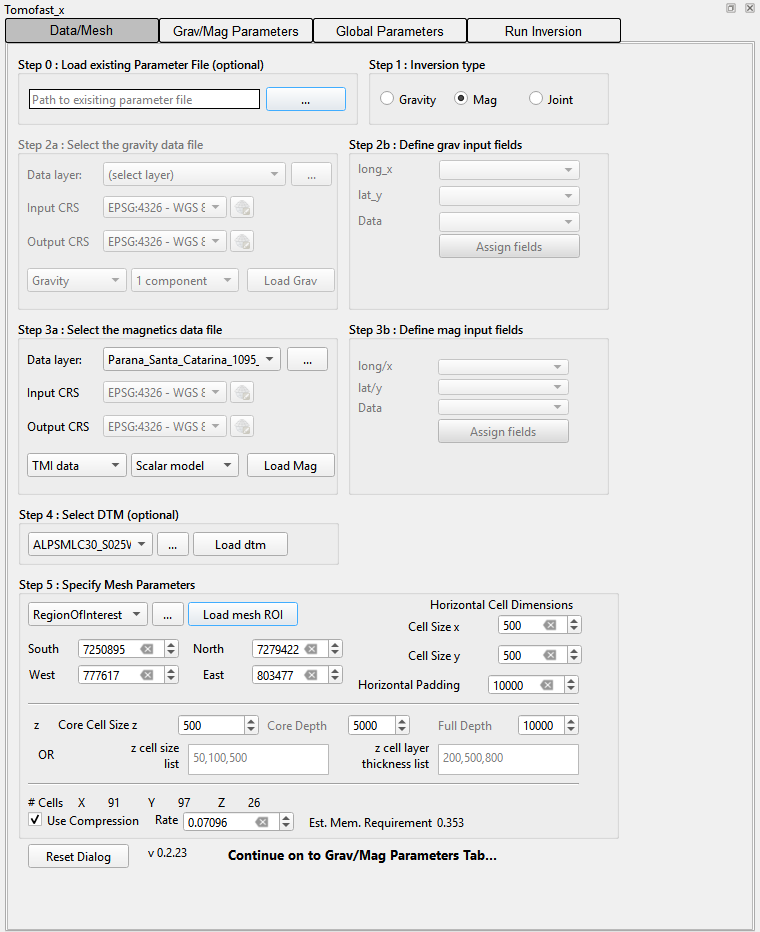
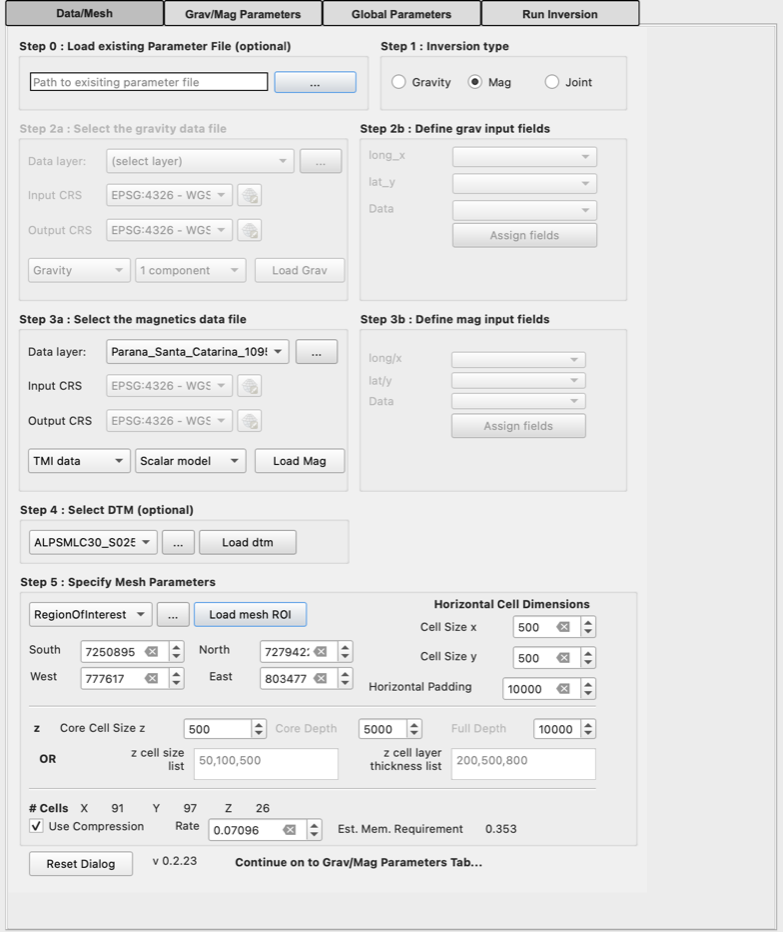
User manual: example data section, regional-removed Cajati grid
- Add an Example data section with the Cajati.zip download, SGB credit
  and an explanation of the regional removal (SGTool Remove Regional,
  1st order), which centres the magnetic grid on zero
- Redo the walkthrough with the _RR grid: the run now passes every
  check (susceptibility -0.89 to 0.90 instead of -9.9 to 15.6)
- Regenerate screenshots and maps (macOS), fix the file table to the
  zip's flat layout, update the Reference Manual to match

diff --git a/docs/ReferenceManual.md b/docs/ReferenceManual.md
@@ -118,9 +118,9 @@ Step 2a 🟧 Grav and Step 3a 🟦 Mag work the same way.
 | Scalar model / Vector (MVI) | ⬜ Optional | `modelGrid.magn.nModelComponents` (1 or 3) | Solve for susceptibility, or for a magnetisation vector (Mx, My, Mz) in each cell. |
 | **Load Grav** / **Load Mag** | 🟧 Grav 🟦 Mag |  | Reads the chosen data. A raster is added to the map (or the open layer is reused) and its extent is copied to the mesh limits in Step 5. For multi-component rasters the matching component files are found and checked. For a CSV file the column lists in Step 2b/3b are filled. If a mesh ROI was loaded earlier with the same CRS it is re-applied; if the CRS has changed you are asked to reload the ROI and the DTM. |
 
-<img src="images/tab1_mag_loaded.png" width="420" alt="Step 3a with the MAGMIC grid chosen; Step 5 limits now show the raster extent South 7231675 North 7344425 West 701943 East 805193.">
+<img src="images/tab1_mag_loaded.png" width="420" alt="Step 3a with the regional-removed MAGMIC_clipped_RR grid chosen; Step 5 limits now show the raster extent South 7231675 North 7344425 West 701943 East 805193.">
 
-*After **Load Mag** with the Cajati grid: the Step 5 limits hold the raster extent.*
+*After **Load Mag** with the Cajati grid (regional removed): the Step 5 limits hold the raster extent.*
 
 ### Steps 2b and 3b: Define input fields 🟧 Grav 🟦 Mag (CSV)
 
@@ -198,7 +198,7 @@ Without compression, rate = 1. Stations are the number of CSV points once loaded
 | Units | Values are written unchanged. Tomofast-x multiplies them by the data unit multiplier ([section 7](#7-gravmag-parameters-tab)). |
 
 > [!WARNING]
-> **Use anomaly data.** The plugin does not remove a regional field or the IGRF. Magnetic total-field grids (such as the Cajati `MAGMIC` grid, mean ≈ 22,850 nT) must be reduced to anomalies first, otherwise the inversion needs unrealistic susceptibilities and the [susceptibility check](#10-post-run-checks) warns. Gravity should be a Bouguer (or residual) anomaly.
+> **Use anomaly data.** The plugin does not remove a regional field or the IGRF. Magnetic total-field grids (such as the original Cajati `MAGMIC` grid, mean ≈ 22,855 nT) must be reduced to anomalies first, otherwise the inversion needs unrealistic susceptibilities and the [susceptibility check](#10-post-run-checks) warns. The example data include a `_RR` grid made with the 1st-order **Remove Regional** filter of the [SGTool](https://github.com/swaxi/SGTool) plugin (see the [User Manual](UserManual.md#example-data)). Gravity should be a Bouguer (or residual) anomaly.
 
 ![Mesh cell centres in blue, widening outwards through the padding, and data points in red filling the core region over the magnetic grid.](images/map_saved.png)
 
@@ -248,7 +248,7 @@ Depth weighting is not shown in the panel. It is written as `forward.depthWeight
 
 ## 8. Global Parameters tab
 
-<img src="images/tab3_saved.png" width="420" alt="Global Parameters tab with description, major iterations 3, minor 100, target misfit 5, joint weights, sensitivity kernel options and the output directory path after Save Files.">
+<img src="images/tab3_saved.png" width="420" alt="Global Parameters tab with major iterations 3, minor 100, target misfit 5, joint weights, sensitivity kernel options and the output directory path after Save Files.">
 
 *Global Parameters for the Cajati example after **Save Files**.*
 
@@ -268,11 +268,11 @@ Depth weighting is not shown in the panel. It is written as `forward.depthWeight
 
 ## 9. Run Inversion tab
 
-<img src="images/tab4_run.png" width="420" alt="Run Inversion tab before the run, with the path to tomofastx.exe and paramfile.txt, Windows Native selected and 19 processors.">
+<img src="images/tab4_run.png" width="420" alt="Run Inversion tab on macOS before the run, with the paths to tomofastx, paramfile.txt and mpirun, and 9 processors. The Windows Native and WSL options are greyed out.">
 
-*Ready to run (Windows Native).*
+*Ready to run (macOS, with mpirun).*
 
-<img src="images/tab4_finished.png" width="420" alt="Run Inversion tab after the run: the log ends with THE END followed by green PASS lines and one red WARNING line.">
+<img src="images/tab4_finished.png" width="420" alt="Run Inversion tab after the run: the log ends with THE END followed by six green PASS lines.">
 
 *Finished run with the post-run checks.*
 
@@ -290,7 +290,7 @@ Depth weighting is not shown in the panel. It is written as `forward.depthWeight
 | **Export** |  | Writes `OUTPUT/grav_final_model3D_full.csv` and/or `mag_final_model3D_full.csv`: cell centres `x,y,z` (z positive upwards) and the value (`data`, or `Mx,My,Mz` for MVI). |
 | Download Plugin Manual / Cheat Sheet / Tomofast-x Manual |  | Open the documents in your browser. |
 
-![3D view of the Cajati magnetic model: three orthogonal slices coloured with the jet colour map and a shared scale bar clipped at 95%.](images/visualise.png)
+![3D view of the Cajati magnetic model: three orthogonal slices coloured with the jet colour map and a shared scale bar from -0.861 to 0.154, clipped at 95%.](images/visualise.png)
 
 *The Cajati model as drawn by Visualise: half-model slices, padding removed, shared colour scale clipped at the 95th percentile.*
 
@@ -310,7 +310,7 @@ When Tomofast-x finishes, the plugin reads `OUTPUT/costs.txt` and the run log an
 | Density range | \|min\| or \|max\| of model 1 > 1000 | Check the gravity unit multipliers. |
 | Susceptibility range | \|min\| or \|max\| of model 2 > 1 (scalar magnetic models only) | Check the magnetic units, and that the data are anomalies (see [section 6](#6-how-the-data-are-prepared)). |
 
-The Cajati example passes every check except the susceptibility range (min −9.9, max 15.6), because the input grid is total field rather than an anomaly.
+The Cajati example (regional-removed grid) passes every check, with susceptibilities from −0.89 to 0.90. Inverting the original total-field grid instead fails the susceptibility range check (min −9.9, max 15.6).
 
 ---
 
